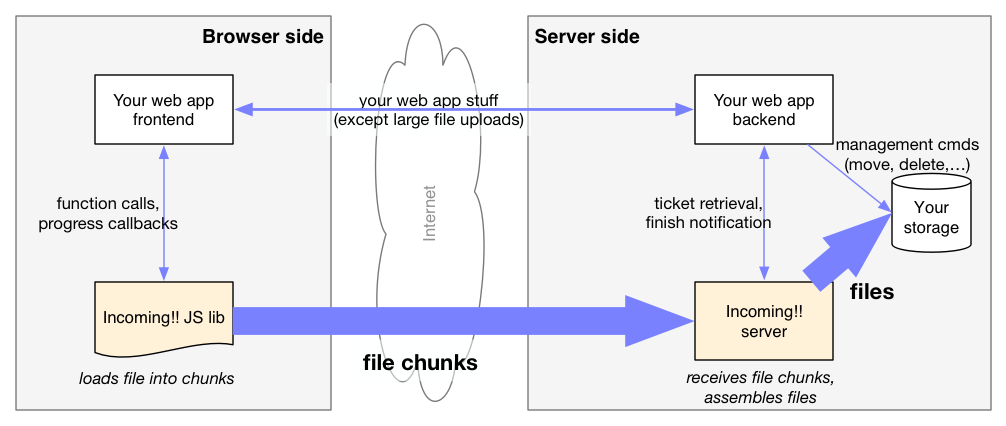
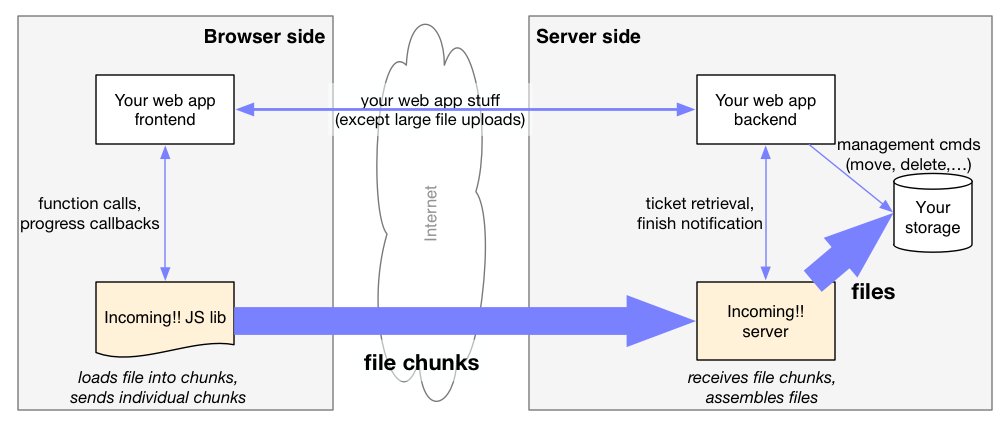
documentation

diff --git a/doc/overview.md b/doc/overview.md
@@ -4,11 +4,15 @@ System overview
 Motivation
 ----------
 
-Large file uploads should be trivial, but sadly aren't. Browsers and web apps / web servers alike still struggle with this. This is because HTTP has no built-in support for streamed uploads, or even only binary file uploads. Instead, files are uploaded as part of regular HTTP requests. Most webservers and web frameworks do not stream HTTP requests, but process them whole. This causes many problems with large file uploads on the server side. For example, a webserver often caches the whole file that comes as part of an HTTP request before handing it, again whole, to the web app backend. This can take a lot of time and bogs down the web app backend when it receives and processes the file. Another problem is that a large file upload either succeeds or fails as a whole: if anything happens during the time the request is sent from the browser to the server, the whole file upload has failed and must be repeated as a whole. Yet another problem is that the application running in the browser usually doesn't know anything about the progress of an ongoing upload. All your web app frontend knows is that a request (for example a form submit) is going on that takes a very long time.
+Large file uploads in the browser should be trivial, but sadly aren't. Browsers and web apps / web servers alike still struggle with this. This is because HTTP has no built-in support for streamed uploads, Instead, files are uploaded as part of regular HTTP requests. Most webservers and web frameworks do not stream HTTP requests, but process them whole. This causes many problems with large file uploads on both client and server sides. For example, a webserver often caches the whole file that comes as part of an HTTP request before handing it, again whole, to the web app backend. This can take a lot of time and bogs down the web app backend when it receives and processes the contents of the file. Another problem is that a large file upload either succeeds or fails as a whole: if anything happens during the time the request is sent from the browser to the server, the whole file upload has failed and must be repeated as a whole. Yet another problem is that the application running in the browser usually doesn't know anything about the progress of an ongoing upload. All your web app frontend knows is that a request (for example a form submit) is going on that takes a very long time.
 
-One way of avoiding most of these problems is to chop up a large file into small pieces and to upload these pieces individually. This is not standardized in any way, and there is no built-in support for this functionality in any popular browsers or webservers yet. Therefore, custom code is needed on both client and server sides. On the client side, some JavaScript must chop up the file and send the parts individually to the server. On the server side, some web server must receive the parts and assemble them into one file again. This has been implemented many times for different web frameworks and applications. However, web app backends that handle large file uploads are still bogged down by them. Instead of being able to answer many small requests, they are busy handling only very few large requests (file uploads). Web applications that handle large file uploads must therefore scale out early and wide. 
+One way to avoid most of these problems is to chop up a large file into small pieces and to upload these pieces individually. This is not standardized in any way, and there is no built-in support for this functionality in any popular browsers or webservers yet. Therefore, custom code is needed on both client and server sides. On the client side, some JavaScript must chop up the file and send the parts individually to the server. On the server side, some web server must receive the parts and assemble them into one file again. This has been implemented many times for different web frameworks and applications. However, web app backend processes that handle large file uploads are still bogged down by them. Instead of being able to answer many small requests, they are busy handling only very few large requests (file uploads). Web applications that handle large file uploads must therefore scale out early and wide.
 
-Incoming!! factors out large file uploads into an own application. Any web application can use Incoming!!, which makes its functionality available to the web application frontend via a JavaScript file, and to the web application backend via an HTTP API. It is possible to run Incoming!! alongside an individual web app, or centrally for your whole organization that might run many web apps written in various languages and frameworks. This way, both the complexity and the performance impact of large file uploads can be taken away from your web app backends.
+In summary, this is bad:
+
+![bad][fig-bad]
+
+In order to solve all of the above problems, Incoming!! factors out large file uploads into an own application. Any web application can use Incoming!!, which makes its functionality available to the web application frontend via a JavaScript file, and to the web application backend via an HTTP API. It is possible to run Incoming!! alongside an individual web app, or centrally for your whole organization that might run many web apps written in various languages and frameworks. This way, both the complexity and the performance impact of large file uploads can be taken away from your web app backends.
 
 
 Basic design
@@ -26,15 +30,15 @@ On the browser side we find your web app frontend, which is typically some sort 
 
 On the server side, we have your web app backend, that is some application handling HTTP requests coming in from your users' browsers. Since you deal with large files, you also have some sort of storage, for example a spacious file system or a clustered storage system such as Ceph. Incoming!!'s server lives alongside your app's backend and the storage. These three components can communicate with each other over the network.
 
-The browser and server side communicate with each other over the Internet using HTTP and WebSockets. It is likely that you funnel all that traffic (your web app's traffic *and* Incoming!! traffic) through one or several reverse proxies. This is not strictly necessary, though, and for the sake of simplicity we omit the reverse proxy from the following discussions. The basic Incoming!! design doesn't change significantly with reverse proxies, it is just simpler to introduce the system without them. The example web apps we ship with the source code use a reverse proxy.
+The browser and server side communicate with each other over the Internet using HTTP and WebSockets. It is likely that you funnel all that traffic (your web app's traffic *and* Incoming!! traffic) through one or several reverse proxies. This is not strictly necessary, though, and for the sake of simplicity we omit the reverse proxies from the following discussions. The basic Incoming!! design doesn't change significantly with reverse proxies, it is just simpler to introduce the system without them. The example web apps we ship with the source code use a reverse proxy.
 
 The following picture shows the main data flows in the system, with arrow widths roughly indicating the amount of data we typically expect to flow through the system.
 
 ![data flows][fig-data_flows]
 
-Incoming!! does the heavy lifting, while your web app frontend and backend communicate with Incoming!! through thin APIs that don't exchange much data. Most importantly, your web app backend is relieved from handling large amounts of data at any point. It never needs to touch uploaded files directly. If your web app backend and the Incoming!! server run on different machines, your web app backend is also shielded from file upload traffic. Note though that the Incoming!! server and your web app backend both need access to your storage, which in the distributed case has to be accessible over the network. Typical storage systems for this would be simple filesystem network shares like CIFS or NFS (on a third machine) or a clustered storage system such as Ceph.
+Incoming!! does the heavy lifting, while your web app frontend and backend communicate with Incoming!! through thin APIs that don't exchange much data. Most importantly, your web app backend is relieved from handling large amounts of data at any point. It never needs to touch the content of uploaded files directly. If your web app backend and the Incoming!! server run on different machines, the machine your web app backend runs on is also shielded from file upload traffic. Note though that the Incoming!! server and your web app backend both need access to your storage, which in the distributed case has to be accessible over the network. Typical storage systems for this include simple filesystem network shares like CIFS or NFS (on a third machine) or a clustered storage system such as Ceph.
 
-By the way, if your web app is supposed to serve large files to your users, it is likewise a good idea to not let your web app backend handle any large amounts of data (if that is possible). Typically, you would use a webserver that has a sendfile (or similarly named) extension to let the webserver do the heavy lifting of delivering large files to clients.
+By the way, if your web app is supposed to serve or stream large files to your users, it is likewise a good idea to not let your web app backend handle any large amounts of data (if that is possible). Typically, you would use a webserver that has a sendfile (or similarly named) extension to let the webserver do the heavy lifting of delivering large files to clients.
 
 
 A large file upload with Incoming!!

diff --git a/README.md b/README.md
@@ -1,9 +1,9 @@
 Incoming!!
 ==========
 
-Large file uploads with web browsers are frustrating, they may even break your web app when implemented wrong, and they are not too easy to implement right. Incoming!! handles large file uploads for your web apps so you don't have to. In the browser, it chops up a large file into little pieces, then transfers them over to its own server application, which will put them together, store them, and hand the file over to your web app backend. Disconnects during upload are no problem, and explicit pause / resume is also supported. With Incoming!!, both the complexity and performance impact of large file uploads are off your web app's back.
+Large file uploads with web browsers are frustrating because you can not implement them in a straightforward and painless way. When implemented wrong, they stall your web app and might even break it, and implementing them right is not easily done. Incoming!! handles large file uploads for your web apps so you don't have to. In the browser, it chops up a large file into little pieces, transfers those over to its own server application, which puts them together, stores them, and finally hands the uploaded file over to your web app backend. Disconnects during upload are no problem, and explicit pause / resume is also supported. With Incoming!!, both the complexity and performance impact of large file uploads are off your web app's back.
 
-Incoming!! consists of a server application and a JavaScript client library. The server can run alongside your web app backend or centrally in your organization, and the JavaScript client is used directly in your web app's frontend in the browser. When you want to upload a large file, your web app backend first fetches an upload ticket from the Incoming!! server. Then, using that ticket, your frontend can use the Incoming!! JavaScript library to send the large file to the Incoming!! server. When the upload is finished, the Incoming!! server hands over the file to your web app backend.
+Incoming!! consists of a server application and a JavaScript client library. The server can run alongside your web app backend or centrally in your organization, and the JavaScript client is used directly in your web app's frontend in the browser. When you want to upload a large file, your web app backend first fetches an upload ticket from the Incoming!! server. Then, using that ticket, your frontend can use the Incoming!! JavaScript library to send the large file to the Incoming!! server. When the upload is finished, the Incoming!! server hands the file over to your web app backend.
 
 Your web app backend and the Incoming!! server communicate through simple HTTP requests: Incoming!! provides an endpoint for handing out upload tickets, and issues a request to your web app backend when an upload is finished. To its JavaScript library, Incoming!! exposes a WebSocket server. Incoming!! also hosts the JavaScript library file.
 
@@ -15,17 +15,18 @@ At the present stage of development, Incoming!! can already be deployed together
 Usage summary
 -------------
 
-Install the Incoming!! server alongside your web app, or centrally for your organization. In your web app backend, you need the following:
+Install the Incoming!! server alongside your web app, or centrally for your organization. With the Incoming!! server in place, you do the following in your web app backend to use it:
 
 * you request an *upload ticket* from the Incoming!! server with an HTTP POST request to `/incoming/backend/new_upload`. Parameters include a URL that the Incoming!! server should access later when the upload is finished, so that your web app backend will know when the upload is done. The Incoming!! server answers with a *ticket ID*.
-* you need to provide a route for the aforementioned "upload is finished" URL. It will get an HTTP POST request from the Incoming!! server when an upload is finished. Parameters include the path of the uploaded file on the filesystem both Incoming!! server and your web app backend have access to. Now your web app backend can rename the uploaded file, update your database etc. When the HTTP request returns, the Incoming!! server assumes that the upload is finished.
+* the ticket ID has to be communicated to the frontend somehow. How you do this is up to you. Two typical approaches are your backend rendering the ticket ID into a template for a file upload page, or to do it dynamically with AJAX. (The reason for letting you do this in your app instead of letting Incoming!! do this is to avoid burdening Incoming!! with any sort of user authentication - this is your app's job, not Incoming!!'s.)
+* you need to provide a route for the aforementioned "upload is finished" URL. It will get an HTTP POST request from the Incoming!! server when an upload is finished. Parameters include the path of the uploaded file on the filesystem that both Incoming!! server and your web app backend have access to. Now your web app backend can rename the uploaded file, update your database etc. When the HTTP request returns, the Incoming!! server assumes that the upload is finished.
 
 You can of course customize the whole process a bit, but this is the gist of it.
 
-In your web app's frontend (i.e., the HTML + JavaScript stuff running in the user's browser), you need the following:
+In your web app's frontend (i.e., the HTML + JavaScript stuff running in the user's browser), you do the following:
 
 * you need to load the Incoming!! JavaScript library, typically using a `<script>` tag. It is hosted on the Incoming!! server.
-* when you want to upload a file, your web app frontend needs to have a ticket ID from your backend. How your frontend gets one is up to you. Two typical ways of doing this could be your backend rendering the ticket ID into a template for a file upload page, or to do it dynamically with AJAX. (The reason for letting you do this in your app instead of letting Incoming!! do this is to avoid burdening Incoming!! with any sort of user authentication - this is your app's job, not Incoming!!'s.)
+* when you want to upload a file, your web app frontend needs to get a ticket ID from your backend (which in turn got it from the Incoming!! server - see above). 
 * when you got a ticket, you can use `incoming.Uploader()` to initialize an Uploader object, and `Uploader.start()` to start uploading. You can provide callbacks for progress, completion, etc., and a bunch of variables are available in an Uploader object for you to track and inspect uploads.
 * as soon as an Uploader object calls the completion callback, you know that the file has been uploaded and handed over to your web app backend.
 
@@ -37,7 +38,7 @@ When you set all of this up, you should make sure that Incoming!!'s `new_upload`
 Documentation
 -------------
 
-* System overview: motivation, design, sequence of an upload
+* [System overview: motivation, design, sequence of an upload](doc/overview.md)
 * Installation
 * Getting started - example web apps!
     * The "simple" example web app
